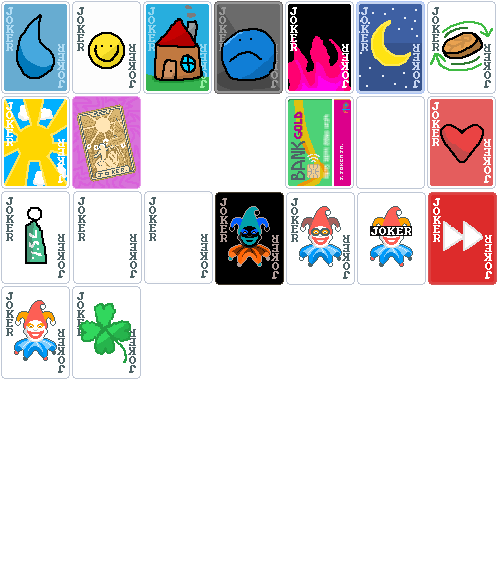
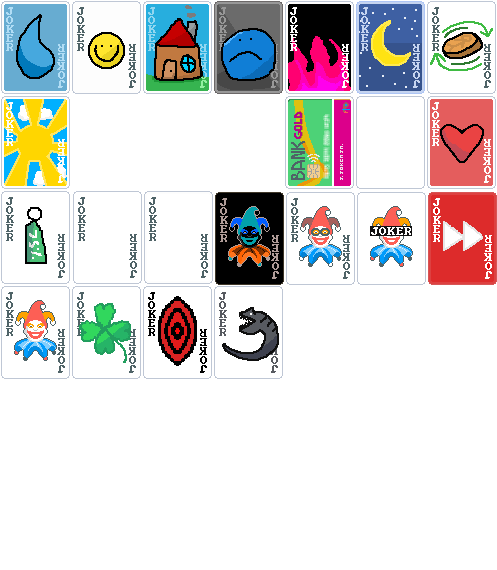
grace

Changed region(s): [[0.1509, 0.507, 0.5734, 0.6561], [0.1207, 0.1491, 0.3018, 0.3579], [0.0604, 0.3877, 0.0905, 0.4772]]

diff --git a/README.md b/README.md
@@ -1,3 +1,5 @@
 # Stuffz
 
-A mod that adds jokers with horrible art
+A mod that adds jokers with not so good art
+
+since im too lazy to make releases, you download the mod by clicking that green code button thing and clicking download zip ok yippee 48ruewi4fjhcdnb
